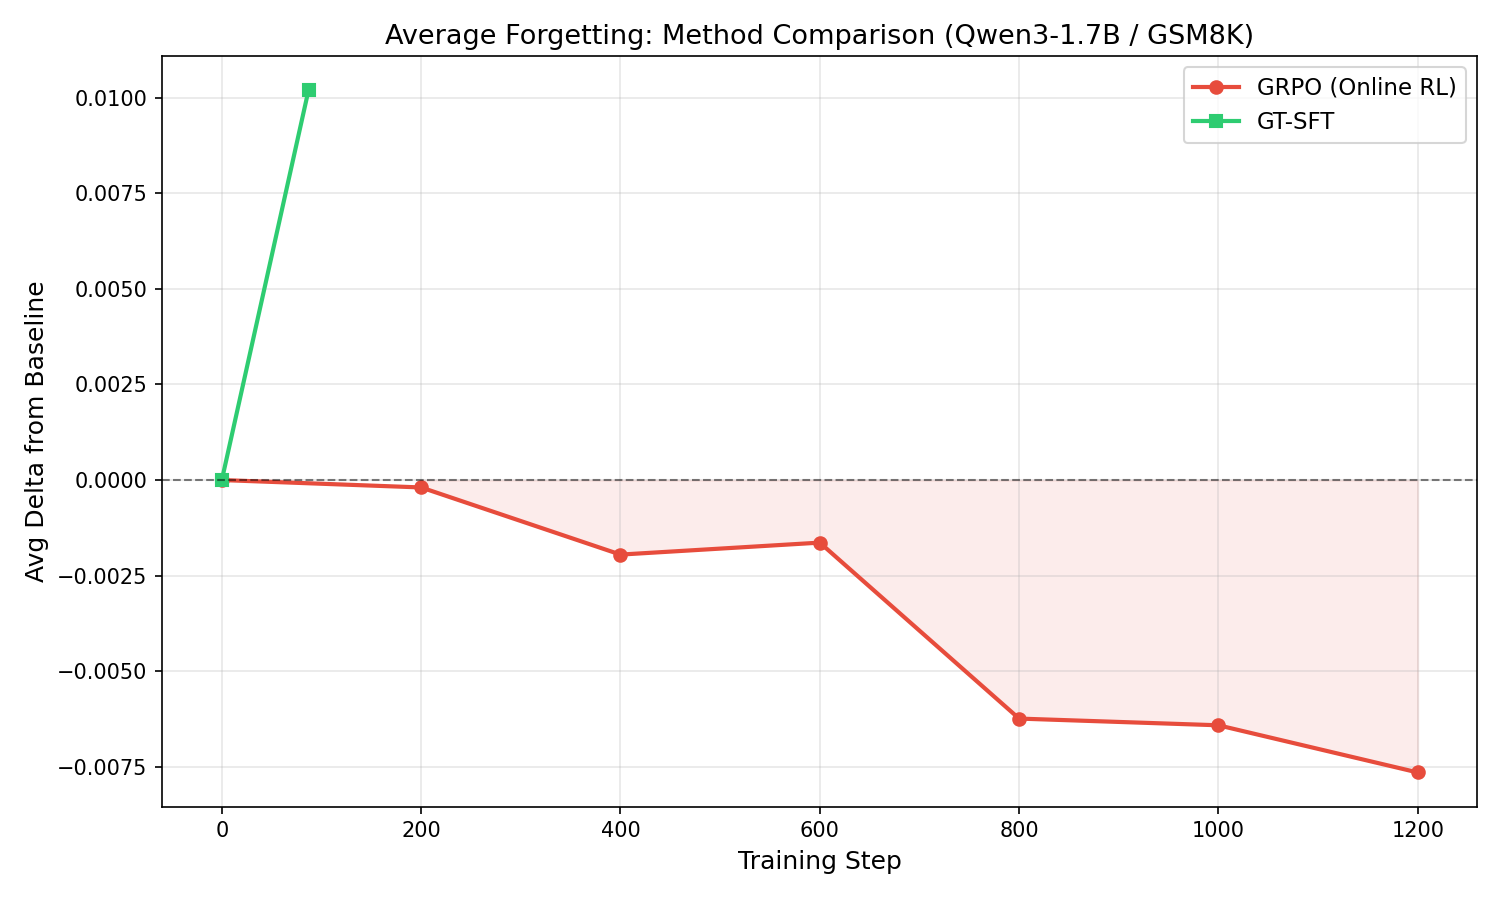
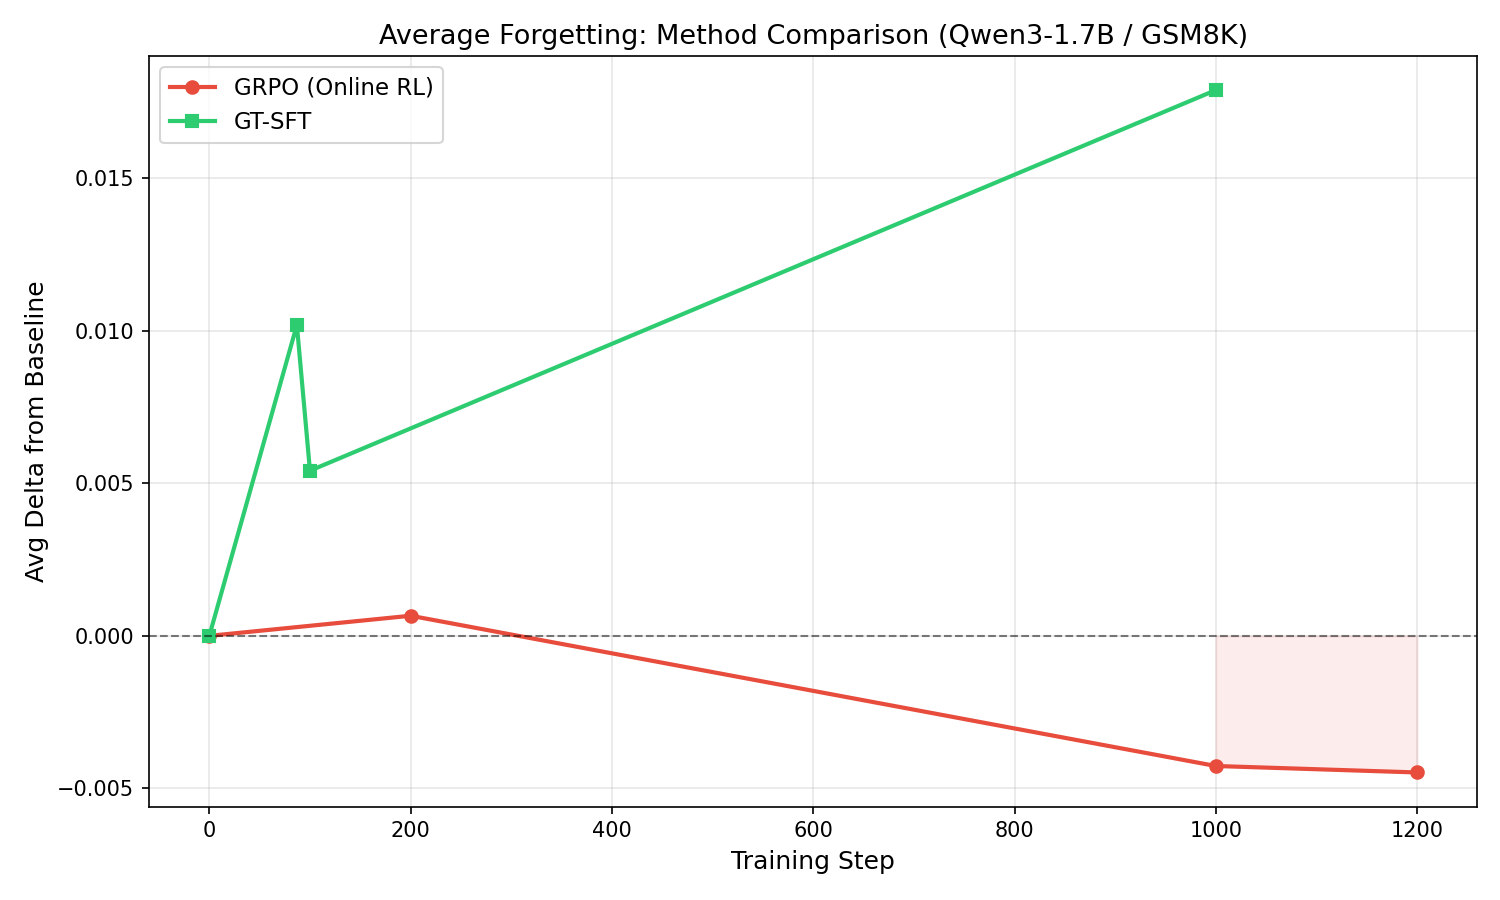
Add per-benchmark accuracy comparison plots to STATUS.md
New plot: per_benchmark_accuracy_comparison.png shows absolute accuracy
(not delta) for GRPO vs GT-SFT overlaid per benchmark. Also updated
absolute_scores_comparison to use common benchmarks only.

diff --git a/STATUS.md b/STATUS.md
@@ -1,6 +1,6 @@
 # Experiment Status Tracker
 
-**Last updated:** 2026-03-01
+**Last updated:** 2026-03-02
 **WandB:** [forgetting-llms project](https://wandb.ai/laurent-charlin/forgetting-llms)
 **Repo:** [github.com/Emilianopp/forgetting-llms](https://github.com/Emilianopp/forgetting-llms)
 
@@ -100,7 +100,7 @@ All checkpoint paths relative to `~/scratch/forgetting-llms/`.
 | GRPO GSM8K | 6 + base | **7/7** | **COMPLETE** (8-bench) | Old run, 8 benchmarks only |
 | GRPO GSM8K | 6 + base | 3/7 | QUEUED | 10-bench re-eval (job 8847627) |
 | GT-SFT GSM8K | 15 + base | 4/16 | QUEUED | Resumable (job 8847628) |
-| GT-SFT MATH | 14 + base | ~2/15 | RUNNING | 8840042 running, then 8847629 |
+| GT-SFT MATH | 14 + base | 2/15 | RUNNING | 8840042 (step 1000 in progress), then 8847629 |
 | GT-SFT TriviaQA | 15 + base | 0/16 | QUEUED | Resumable (job 8847630) |
 | GRPO MATH | 4 + base | 0/5 | QUEUED | Resumable (job 8847631) |
 | GRPO TriviaQA | 5 + base | 0/6 | QUEUED | Resumable (job 8847632) |
@@ -112,11 +112,13 @@ Eval sweeps auto-resubmit on timeout via `eval_sweep_resumable.sh`.
 
 ---
 
-## Completed Results
+## Results
 
-### GRPO GSM8K — Forgetting Analysis (8 benchmarks, steps 200–1200)
+### GRPO GSM8K — Forgetting (8 benchmarks, complete; 10 benchmarks, partial)
 
 > GRPO on GSM8K causes mild but consistent forgetting across most benchmarks.
+
+**8-benchmark results (complete, steps 200–1200):**
 
 ![GRPO GSM8K Forgetting Curves](figures/eval_results/grpo_gsm8k_forgetting_curves.png)
 
@@ -131,18 +133,72 @@ Eval sweeps auto-resubmit on timeout via `eval_sweep_resumable.sh`.
 | 2nd worst | TruthfulQA (-0.0157) |
 | Task accuracy (step 1200) | 87.4% |
 
-### GT-SFT GSM8K — Preliminary (old 87-step run, 8 benchmarks)
+**10-benchmark results (partial: steps 0, 1000, 1200):**
 
-> GT-SFT on GSM8K ground truth shows **no forgetting** — slight improvement across the board.
+![GRPO GSM8K 10-bench Forgetting](figures/eval_results/grpo_gsm8k_10bench_forgetting_curves.png)
+
+![GRPO GSM8K 10-bench Heatmap](figures/eval_results/grpo_gsm8k_10bench_heatmap.png)
 
 | Metric | Value |
 |--------|-------|
-| Avg delta (8 benchmarks) | **+0.0102** |
-| All benchmarks | Positive or neutral |
+| Avg forgetting (10 benchmarks) | **-0.0045** |
+| MMLU | +0.0016 (no forgetting) |
+| IFEval | +0.0148 (improved) |
+| Worst benchmark | BoolQ (-0.0223) |
 
-*New 15-checkpoint eval with 10 benchmarks in progress.*
+### GT-SFT GSM8K — Forgetting (8 benchmarks, steps 0–1000)
 
-### Comparison: GRPO vs GT-SFT on GSM8K (preliminary)
+> GT-SFT on GSM8K ground truth shows **no forgetting** — consistent improvement across the board.
+
+![GT-SFT GSM8K Forgetting Curves](figures/eval_results/gt_sft_gsm8k_forgetting_curves.png)
+
+![GT-SFT GSM8K Heatmap](figures/eval_results/gt_sft_gsm8k_heatmap.png)
+
+| Benchmark | Base | Step 1000 | Delta |
+|-----------|------|-----------|-------|
+| arc_challenge | 0.4309 | 0.4650 | **+0.0341** |
+| arc_easy | 0.7003 | 0.7416 | **+0.0412** |
+| hellaswag | 0.6045 | 0.6240 | **+0.0195** |
+| winogrande | 0.6069 | 0.6227 | **+0.0158** |
+| piqa | 0.7247 | 0.7291 | **+0.0044** |
+| boolq | 0.7771 | 0.7985 | **+0.0214** |
+| openbookqa | 0.3720 | 0.3780 | **+0.0060** |
+| truthfulqa_mc2 | 0.4597 | 0.4605 | **+0.0007** |
+| **Average** | | | **+0.0179** |
+
+*15-checkpoint eval with 10 benchmarks in progress (4/16 done).*
+
+### GT-SFT MATH — Preliminary (10 benchmarks, step 100 only)
+
+> Early results: GT-SFT on MATH also shows improvement on most benchmarks, with IFEval drop.
+
+![GT-SFT MATH Forgetting Curves](figures/eval_results/gt_sft_math_forgetting_curves.png)
+
+| Benchmark | Base | Step 100 | Delta |
+|-----------|------|----------|-------|
+| arc_challenge | 0.4309 | 0.4420 | +0.0111 |
+| arc_easy | 0.7003 | 0.7146 | +0.0143 |
+| hellaswag | 0.6045 | 0.6126 | +0.0081 |
+| winogrande | 0.6069 | 0.6180 | +0.0111 |
+| piqa | 0.7247 | 0.7280 | +0.0033 |
+| boolq | 0.7771 | 0.7878 | +0.0107 |
+| openbookqa | 0.3720 | 0.3800 | +0.0080 |
+| truthfulqa_mc2 | 0.4597 | 0.4577 | -0.0020 |
+| mmlu | 0.5546 | 0.5681 | +0.0135 |
+| ifeval | 0.1756 | 0.1368 | **-0.0388** |
+| **Average** | | | **+0.0039** |
+
+*More checkpoints evaluating — step 1000 in progress.*
+
+### Comparison: GRPO vs GT-SFT on GSM8K
+
+#### Benchmark Accuracy (absolute scores per step)
+
+![Per-Benchmark Accuracy Comparison](figures/comparison/per_benchmark_accuracy_comparison.png)
+
+![Average Benchmark Accuracy](figures/comparison/absolute_scores_comparison.png)
+
+#### Forgetting (delta from baseline)
 
 ![Comparison Avg Forgetting](figures/comparison/avg_forgetting_comparison.png)
 
@@ -150,7 +206,12 @@ Eval sweeps auto-resubmit on timeout via `eval_sweep_resumable.sh`.
 
 ![Comparison Heatmap](figures/comparison/heatmap_comparison.png)
 
-**Key finding:** SFT on ground truth causes no forgetting while GRPO causes mild forgetting, even though both learn the same task. This suggests the training method (not the data) drives forgetting.
+**Key findings:**
+- **GT-SFT improves benchmark accuracy** — scores go UP across all 8 benchmarks (+0.0179 avg at step 1000)
+- **GRPO degrades benchmark accuracy** — mild forgetting (-0.0045 avg at step 1200), worst on BoolQ (-0.022) and TruthfulQA (-0.016)
+- Both learn the same task (GSM8K math), suggesting **the training method, not the data, drives forgetting**
+- MMLU and IFEval (10-bench) show no GRPO forgetting — forgetting concentrates on simpler benchmarks
+- GT-SFT accuracy increases monotonically through step 1000; GRPO accuracy drops early then partially recovers
 
 ---
 
